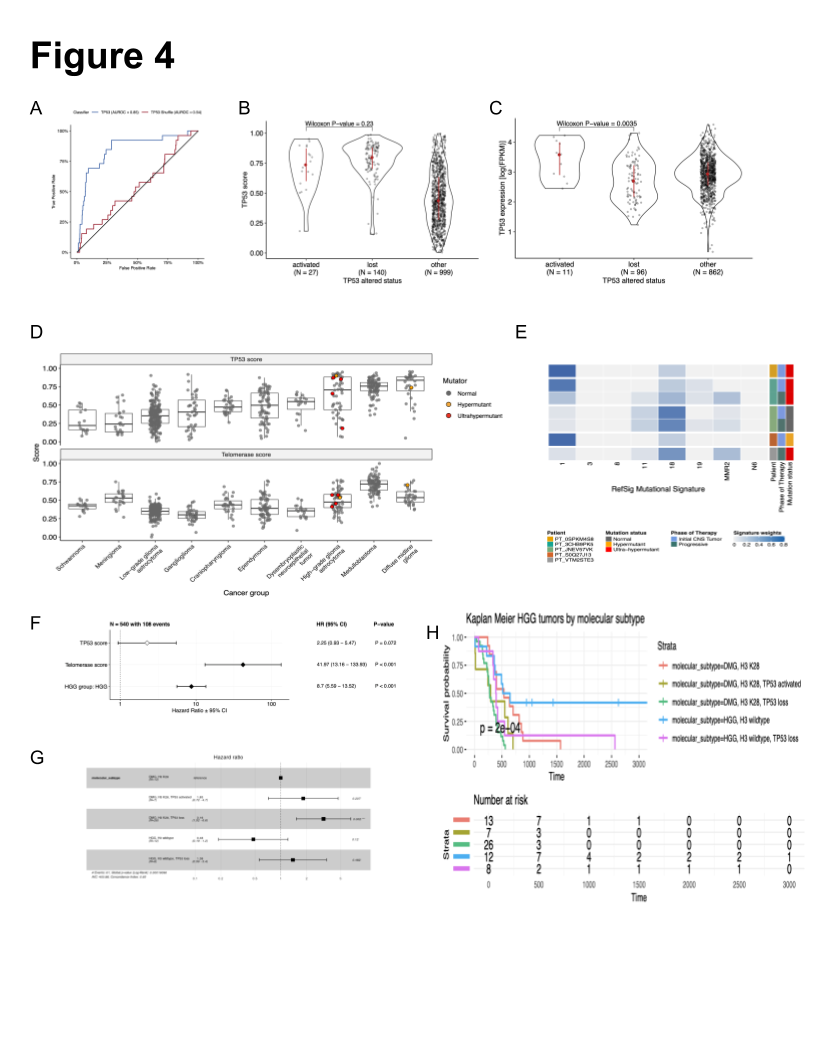
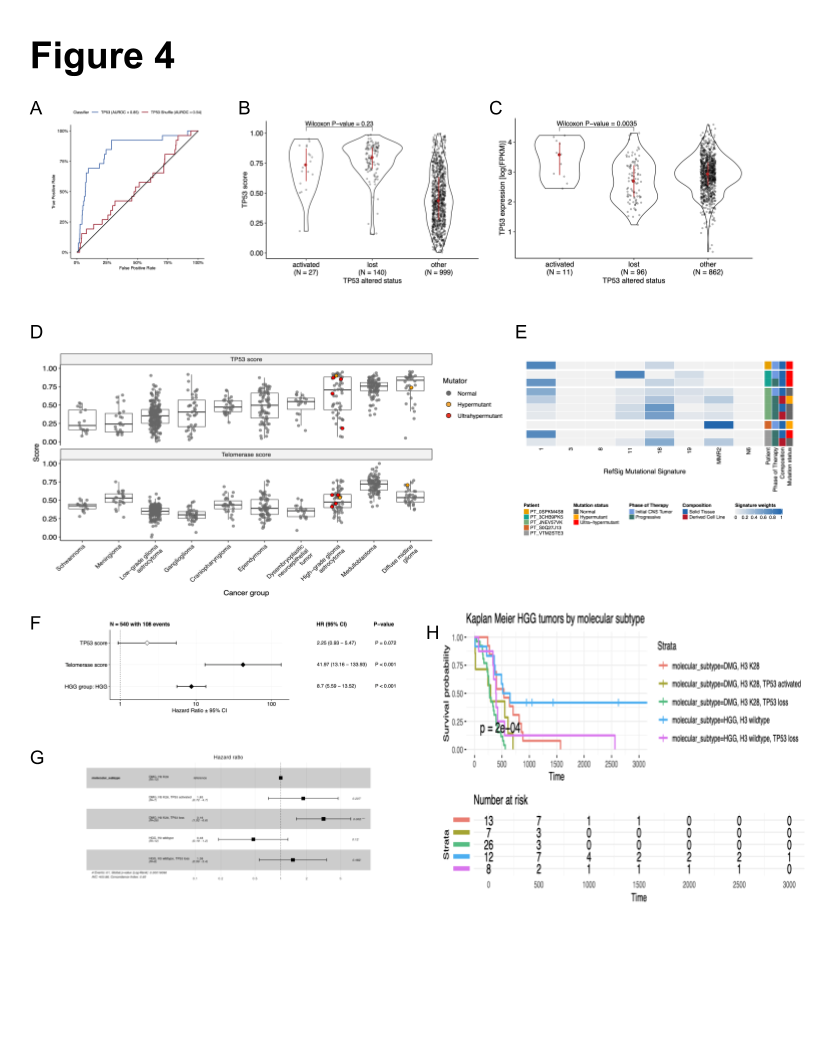
update figure 4 heatmap

Changed region(s): [[0.6434, 0.3438, 0.9804, 0.5312], [0.6434, 0.3438, 0.7047, 0.4375]]

diff --git a/content/05.administrative.md b/content/05.administrative.md
@@ -28,6 +28,6 @@ JAS, CLS, CJB, SJS, and JNT are or were employees of Alex's Lemonade Stand Found
 Listed are broad tumor histologies, molecular subtypes generated, and number of specimens subtyped within the OpenPBTA project.
 
 **Table 2. Patients with hypermutant tumors.**
-Listed are patients with at least one hypermutant or ultra-hypermutant tumor.
+Listed are patients with at least one hypermutant or ultra-hypermutant tumor or cell line.
 Coding region TMB, phase of therapy, therapeutic interventions, cancer predispositions, and molecular subtypes are included.
 
